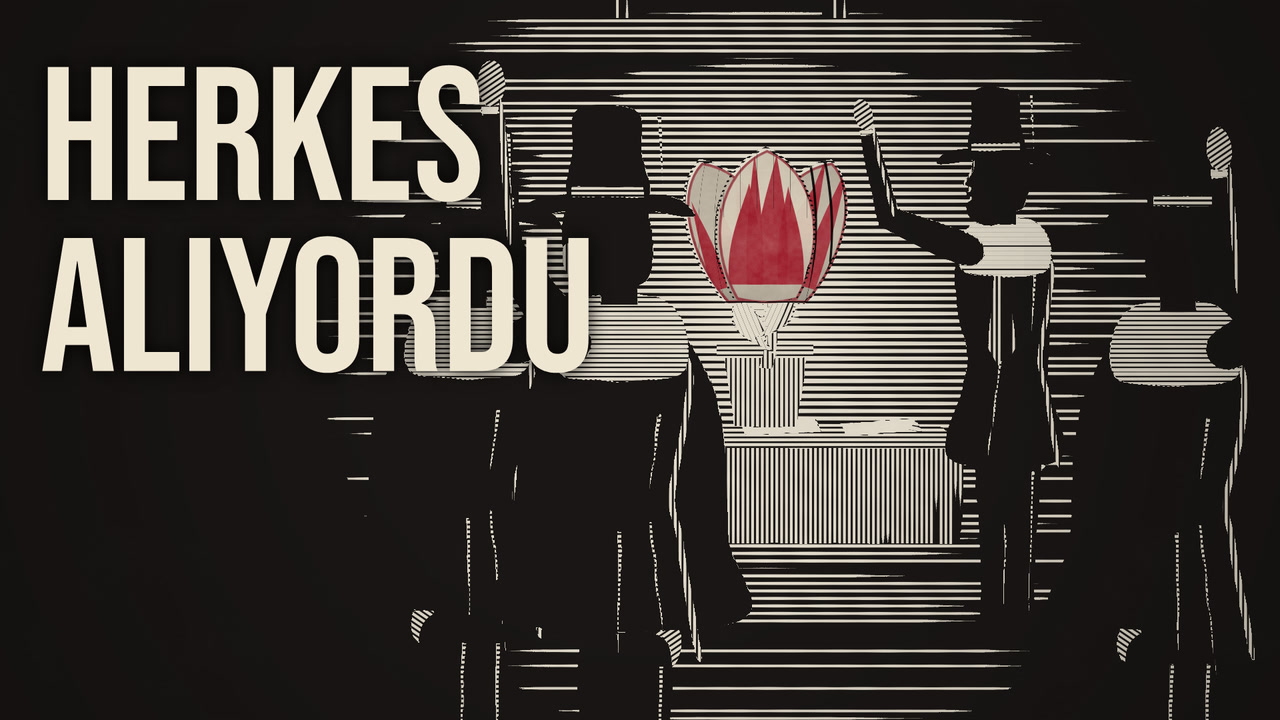
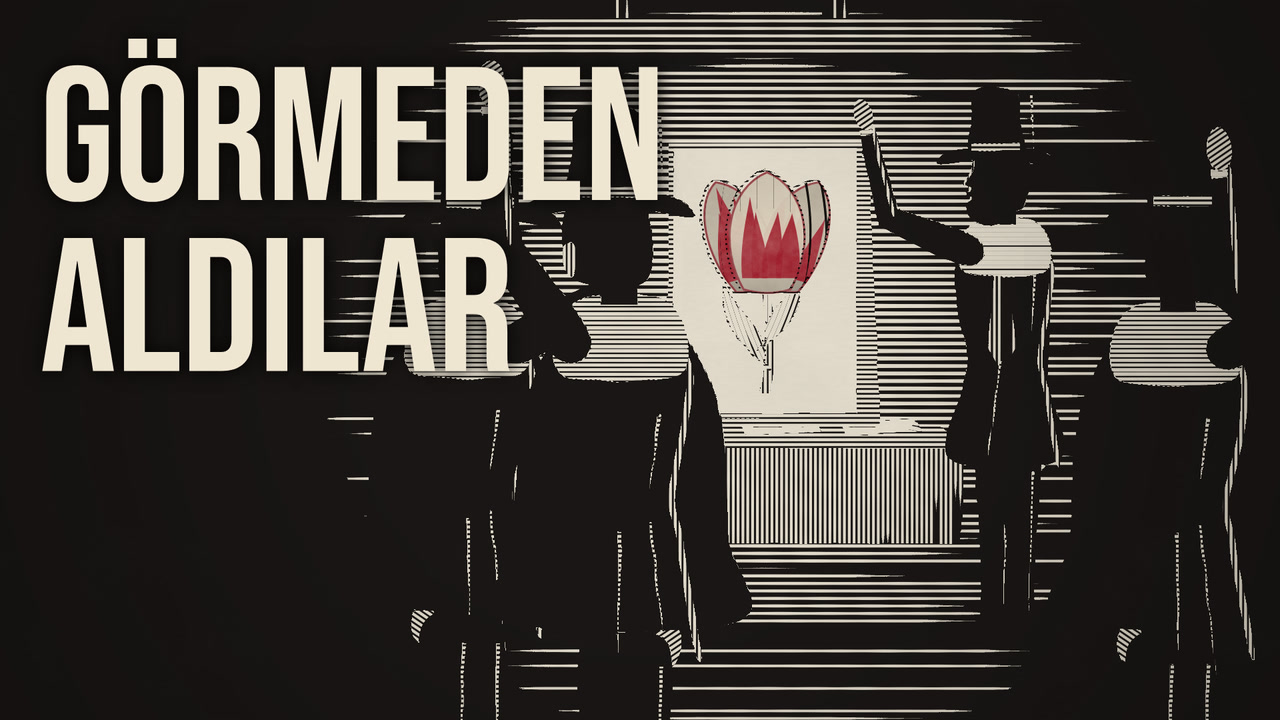
Lale Çılgınlığı: kapak B 'GÖRMEDEN ALDILAR' (kapak merak açar, başlık tamamlar; eski yazı başlığı tekrarlıyordu), masada kâğıda boyanmış lale; CLAUDE.md'ye formül öneri olarak
Claude-Session: https://claude.ai/code/session_01DiDBPDZctK6KxWNTMmyQpA

Changed region(s): [[0.0312, 0.0306, 0.6875, 0.6111]]

diff --git a/lale-cilginligi/lib/kapak.js b/lale-cilginligi/lib/kapak.js
@@ -1,6 +1,6 @@
 // Kapaklar (1920×1080 çizilir, 1280×720 kaydedilir). kapak.html?render=1 → window.kapak('A'|'B', o)
 // A "karşıtlık": terazi; kefede renkli lale (tek renk) ve soğan ağır basar, öbür kefede ev havada. Yazı: BİR EV FİYATINA (iki satır).
-// B "hareket oku": karanlık meyhane; dirsekten kırık, yukarı uzanan eller tek renkli laleye; lalenin sapı yukarı tırmanan bir fiyat çizgisi. Yazı: HERKES ALIYORDU.
+// B "hareket oku": karanlık meyhane; dirsekten kırık, yukarı uzanan eller kâğıda boyanmış tek renkli laleye. Yazı: GÖRMEDEN ALDILAR (23 Kasım; eski HERKES ALIYORDU başlığı tekrar ediyordu).
 // Kurallar: renk yalnız lalede; harf yüksekliği ≥ %18 (Bebas büyük harf ≈ 0,70 em → font ≥ 280 px); sağ alt süre rozeti (x 1440–1874, y 829–1034) boş.
 'use strict';
 (function () {
@@ -45,7 +45,12 @@
     levha(ctx, cam, () => {
       GR.fill(SET.R(-400, -400, 2800, 1900), GR.tone(.06), { th: 0, id: 0 });
       for (let x = -300; x < 2400; x += 260) GR.fill(INSAN.F([[x, -60], [x + 70, -60], [x + 50, 150], [x + 20, 150]]), GR.tone(.03), { th: Math.PI / 2, id: 9 });
-      SET.masa(1000, 640, 420); SET.saksi(1210, 640, 1.25); LALE.ciz(1210, 480, 1.95, { sap: 90, cesit: 'semper', ac: .3 });
+      // masada saksı değil, kâğıda boyanmış lale (lale kitabı sayfası): alıcılar soğanı görmeden, resme bakarak teklif veriyor ("GÖRMEDEN ALDILAR")
+      SET.masa(1000, 640, 420);
+      GR.fill(INSAN.F([[1086, 640], [1100, 318], [1334, 318], [1348, 640]]), GR.tone(.25), { th: 0, id: 9 });   // sayfa arkasındaki dayanak
+      GR.fill(SET.R(1094, 300, 232, 330), GR.tone(.94), { th: .02, id: 10 }); GR.fill(SET.R(1094, 300, 232, 330), null, null);
+      for (const [x, y, w, h] of [[1094, 300, 232, 6], [1094, 624, 232, 6], [1094, 300, 6, 330], [1320, 300, 6, 330]]) GR.fill(SET.R(x, y, w, h), GR.tone(.2), { th: 0, id: 9 });
+      LALE.ciz(1210, 470, 1.55, { sap: 130, cesit: 'semper', ac: .3 });
       SET.isik({ x: 1210, y: 500, r1: 560, a: 1 });
       INSAN.adam({ x: 1500, y: 900, h: 560, yon: -1, sapka: 'genis', yaka: 'duz', kenar: .6, kenarYan: -1, kolOn: { a: 2.0, b: .9 }, biyik: true, sakal: true });
       const A = [[850, 1180, 760, 1, 2.1, 1.0], [1040, 1230, 820, -1, 2.55, .55], [1700, 1220, 800, 1, 2.15, .95], [1960, 1180, 760, -1, 2.05, 1.0]];
@@ -53,7 +58,7 @@
     }, [.06, 0, 0]);
     YAZI.bas(ctx, cam); LALE.boya(ctx, cam, 1, { kay: 2.5, alevK: 2.3, alevN: 1 });
     post(ctx, 0);
-    yazi(ctx, ['HERKES', 'ALIYORDU'], 60, o.ty ?? 300, o.px ?? 285, { col: '#efe6d2', golge: 'rgba(0,0,0,.9)' });
+    yazi(ctx, o.satir || ['GÖRMEDEN', 'ALDILAR'], 60, o.ty ?? 300, o.px ?? 285, { col: '#efe6d2', golge: 'rgba(0,0,0,.9)' });   // kapak merak açar, başlık tamamlar: kapak yazısı başlığın sözcüklerini tekrar etmez
   }
   window.kapak = (v, o = {}) => { baseT(ctx); ctx.fillStyle = '#000'; ctx.fillRect(0, 0, W, H); (v === 'A' ? A : B)(o); return cv; };
 })();

diff --git a/CLAUDE.md b/CLAUDE.md
@@ -178,6 +178,7 @@ Campbell'ın (Vogler uyarlamasıyla) Kahramanın Yolculuğu bir kalıp değil, k
 - **Üslup:** videonun üslubundan sapma; kapak izleyiciyi yanıltmamalı.
 - **Türkçe kelime seçimi:** "SAKIN DÖNME!" yerine "ARKANA BAKMA!" kullanıldı, çünkü "dönme" argo bir hakaret olarak da okunur. "TEK BAKIŞ YETTİ" önce "ilk görüşte aşk" gibi okunuyor.
 - Art arda iki videoda aynı kalıbı ("NEDEN …?") kullanma.
+- **Kapak merak açar, başlık merakı tamamlar (öneri, kullanıcının getirdiği formül, 23 Kasım 2026):** kapak ve başlık bir ekip gibi çalışır; kapak yazısı başlığın sözcüklerini tekrar etmez, başlığın cevaplayacağı ayrı bir merak açar. Lale'de A ("BİR EV FİYATINA" + terazi) zaten uyuyordu; B "HERKES ALIYORDU" başlığı ("Herkes Alıyorsa Alır mısın?") tekrarladığı için "GÖRMEDEN ALDILAR" oldu. Kapak taslağı yazılırken bu bir eleme sorusu olarak sorulur: "kapak yazısı başlıkta zaten var mı?"
 - Duruşta T pozundan kaçın. "Geri dönme" gibi bir anı gövde ile başın yön zıtlığıyla göster.
 - **Cumhuriyet kapağı (5 tur):**
   - Gerçek kişinin silueti (kalpaklı Atatürk profili) 168 px'te ancak doğru biçimle tanınıyor:
